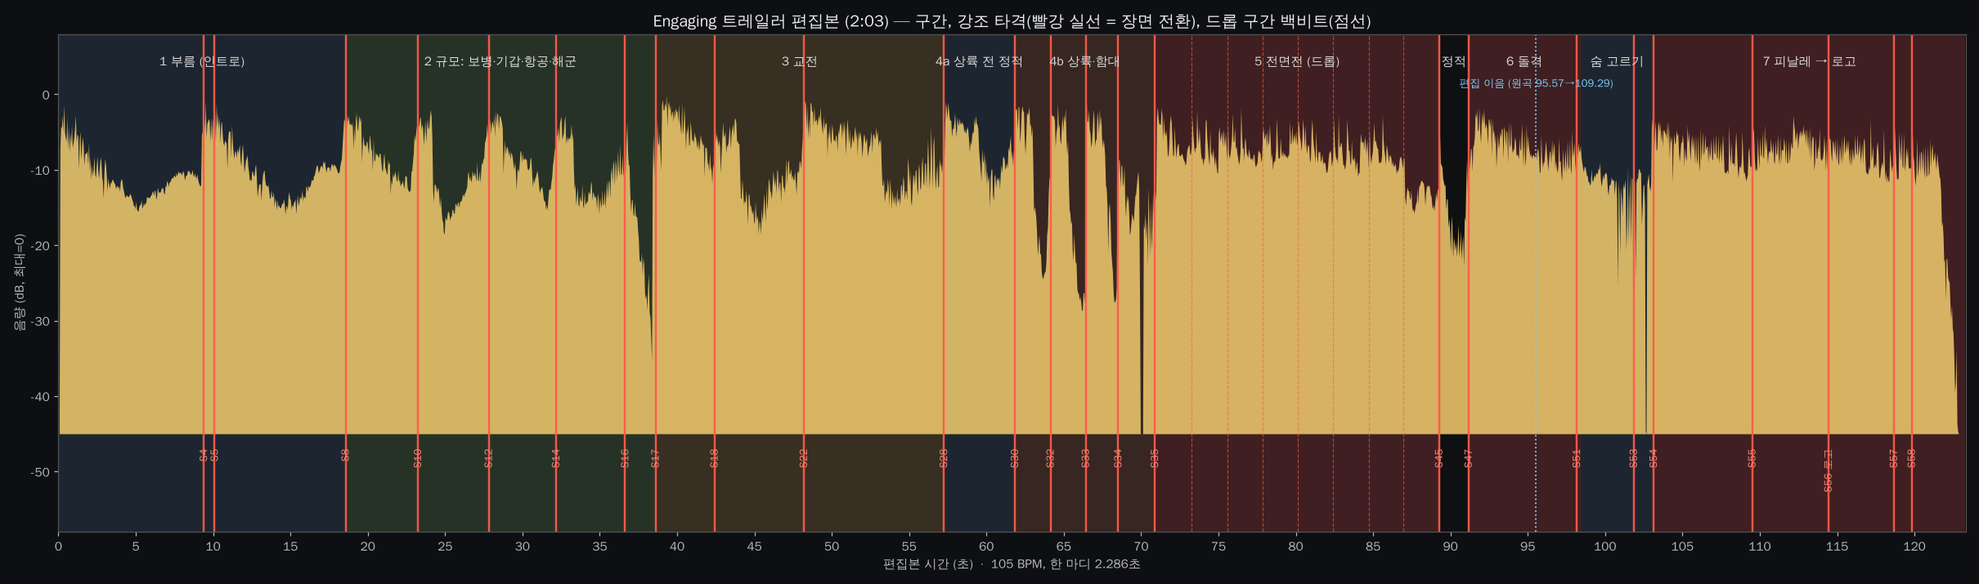
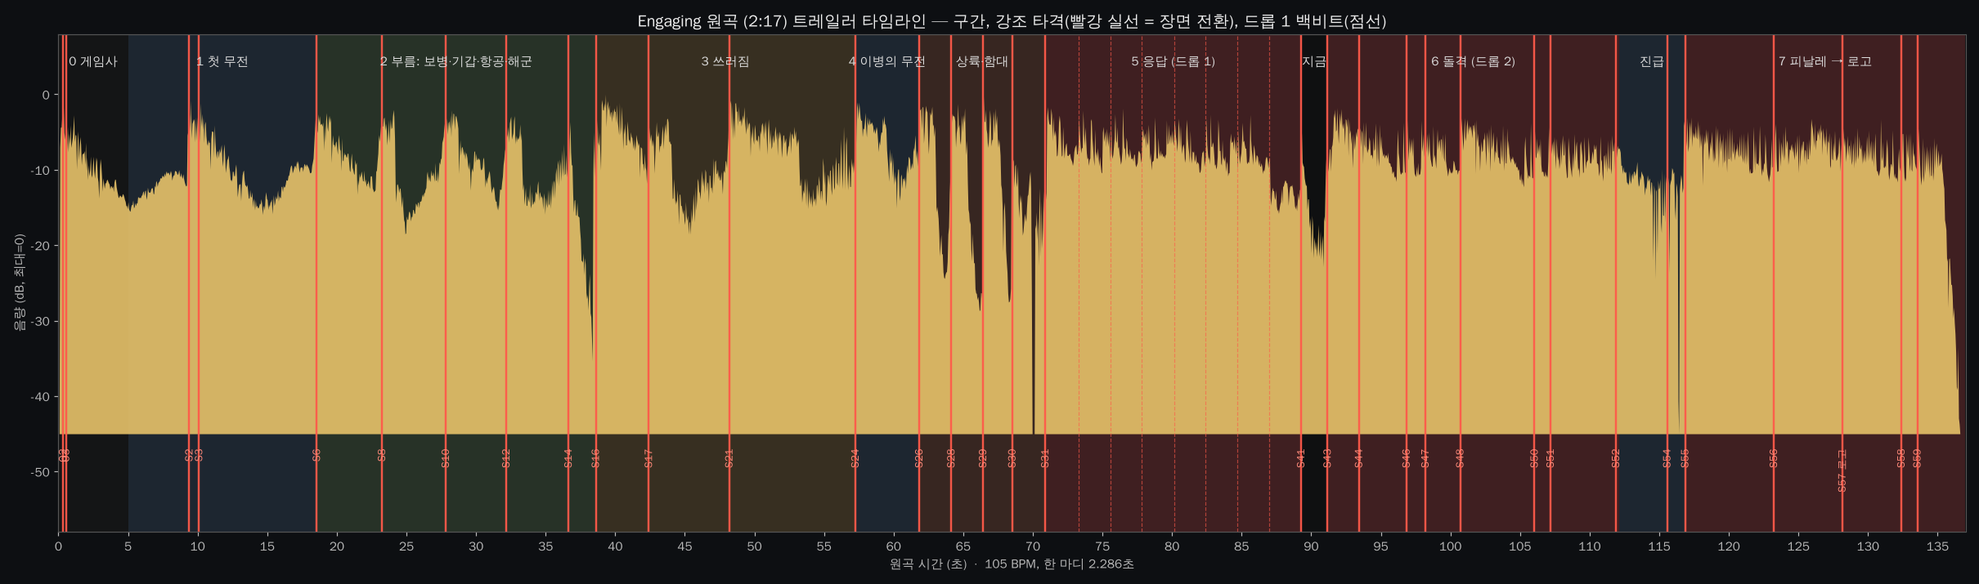
Trailer plan, second draft: original track (2:17), studio opening, real first-person play, the private's story; timeline redrawn
Claude-Session: https://claude.ai/code/session_01VD32C7VcBDEQhZXfw5gdYC

diff --git a/docs/design/trailer.md b/docs/design/trailer.md
@@ -1,6 +1,6 @@
 # 출시 트레일러 설계 [제안]
 
-오너 요청(2026-10-31): 여느 FPS처럼 출시 트레일러를 만든다. 콜 오브 듀티 모던 워페어 4 출시 트레일러 같은 느낌. 음악은 **Engaging 하나만** 쓰고 **2분쯤으로 줄인 편집본**에 맞춘다. 장면 전환은 음악의 파형·분위기·묵직한 타격에 맞춘다.
+오너 요청(2026-10-31): 여느 FPS처럼 출시 트레일러를 만든다. 콜 오브 듀티 모던 워페어 4 출시 트레일러 같은 느낌. 음악은 **Engaging 하나만** 쓴다 (처음엔 2분쯤으로 줄인 편집본이었으나, 오너가 같은 날 **원곡 그대로(2분 17초)** 로 정했다). 장면 전환은 음악의 파형·분위기·묵직한 타격에 맞춘다. 2차 요청(같은 날): **실제 플레이 1인칭 화면을 넣을 것**(봇을 3인칭으로 찍은 것이 아니라), **처음 4–5초는 게임사 로고와 이름만**, **이야기가 분명할 것**.
 
 [제안]은 오너가 아직 정하지 않은 것이다.
 
@@ -40,24 +40,15 @@
 | 112.1–116.7 | 숨 고르기 | 작아진다. 116.3에 한 박 비움 |
 | 116.7–135.3 | 피날레 | 135.3부터 페이드 |
 
-### 2분 편집 [제안]
+### 길이: 원곡 그대로 [확정]
 
-원곡 **95.57초 → 109.29초**를 30 ms 크로스페이드로 잇는다. 드롭 2 가운데 6마디(13.7초)를 빼는 것이고, 결과는 **2분 03초**다.
+오너(2026-10-31)가 "원곡 그대로 쓰는 게 낫겠다"고 정했다. 트레일러는 **2분 17초**이고 아래 시간은 모두 **원곡 시간**이다. 앞서 만든 2:03 편집안(원곡 95.57 → 109.29초, 6마디 삭제)은 쓰지 않는다. 그 13.7초는 6막 돌격 장면으로 채운다.
 
-- **고른 기준:** 마디 단위로 잘라 이을 후보를 전부 비교했다. 비교한 것은 앞뒤 마디의 음색(12음 크로마)과 대역 에너지다. 드롭, 멈춤, 숨 고르기, 피날레 진입을 모두 살리는 후보 가운데 가장 비슷했다.
-- **이음 확인:** 앞뒤 1초 음량은 −12.9 / −13.9 dB다. 이음 근처에서 가장 센 순간(94.98초)은 원곡에 원래 있는 타격이다.
-- **2분 00초가 필요하면:** 93.29 → 109.29(7마디)도 거의 같은 점수다.
-
-```bash
-ffmpeg -i Engaging.mp3 -filter_complex "[0:a]atrim=0:95.57,asetpts=PTS-STARTPTS[a];[0:a]atrim=start=109.29,asetpts=PTS-STARTPTS[b];[a][b]acrossfade=d=0.03:c1=tri:c2=tri[o]" -map "[o]" engaging_trailer.wav
-```
-
-최종 영상에는 오너 PC의 원본(`assets-src/sounds/Engaging.mp3`)으로 같은 지점을 잘라 쓴다. 게임용 파일은 다시 인코딩된 것이다.
-
-### 강조 타격 (편집본 시간, 장면 전환 자리)
+### 강조 타격 (원곡 시간, 장면 전환 자리)
 
 | 시간 | 세기* | 성격 |
 |---|---|---|
+| 0.09 · **0.33** · **0.54** · 0.78 · 1.04 · 1.35 · 1.78 | — | 시작 저음 타격 묶음 (4초쯤 잦아듦) = 게임사 오프닝 자리 |
 | 9.40, 10.10 | 23, 16 | 서브 붐 두 번 (고역 없음) |
 | 18.56 | 20 | 첫 정식 타격 |
 | 23.24 / 27.82 / 32.17 / 36.64 | 21 / 23 / 22 / 17 | 임팩트 4연타 |
@@ -70,163 +61,215 @@ ffmpeg -i Engaging.mp3 -filter_complex "[0:a]atrim=0:95.57,asetpts=PTS-STARTPTS[
 | **70.89** | **37** | 드롭 |
 | 73.27 · 75.57 · 77.84 · 80.14 · 82.41 · 84.71 · 86.96 | 15 안팎 | 드롭 1 백비트 (2.29초 그리드) |
 | 89.27 → 89.75–91.0 정적 → **91.17** | 24 → **40** | 멈춤과 재개 |
-| 98.17 | 14 | 드롭 2 마지막 (원곡 111.89) |
-| 101.85 | — | 숨 고르기 끝 픽업 (원곡 115.57, 저역 급상승 32 dB) |
-| 103.14 | 24 | 피날레 시작 (원곡 116.86) |
-| 103.21 · 103.82 · 104.38 · 104.87 · 105.51 · 106.13 · 106.71 · 107.42 · 107.99 · 108.42 · 108.83 | — | 피날레 킥 (컷 자리) |
-| 109.51 / **114.43** / 118.67 / 119.82 | 17 / 15 / 18 / 16 | 피날레 큰 타격. 114.43 = 로고 |
+| 93.43 / 96.84 / 98.20 / **100.70** / 106.04 / 107.19 | 13 / 17 / 17 / **20** / 18 / 16 | 드롭 2 강조 타격 |
+| 107.43 · 107.85 · 108.14 · 108.95 · 110.42 | — | 드롭 2 끝 필인 |
+| 111.89 | 14 | 드롭 2 마지막 |
+| 115.57 | — | 숨 고르기 끝 픽업 (116.25에 한 박 비움, 저역 급상승 32 dB) |
+| 116.86 | 24 | 피날레 시작 |
+| 116.93 · 117.54 · 118.10 · 118.59 · 119.23 · 119.85 · 120.43 · 121.14 · 121.71 · 122.14 · 122.55 | — | 피날레 킥 (컷 자리) |
+| 123.23 / **128.15** / 132.39 / 133.54 | 17 / 15 / 18 / 16 | 피날레 큰 타격. 128.15 = 로고 |
+| 135.3–137.0 | — | 페이드아웃 |
 
 \* 세기 = 그 순간 음량이 앞 1초보다 튀어나온 정도(dB) + 0.7 × 같은 값의 저역판.
 
-`docs/design/trailer-timeline.png`는 편집본 파형 위에 구간, 타격, 장면 번호를 표시한 그림이다.
+`docs/design/trailer-timeline.png`는 원곡 파형 위에 구간, 타격, 장면 번호를 표시한 그림이다.
 
-## 3. 이야기: "부름" [제안]
+## 3. 이야기: "부름" (2차안) [제안]
 
-**한 줄:** 철문 주둔지의 한 분대장이 무전기를 든다. 그 부름에 보병·기갑·항공·해군이 차례로 답하며 전장이 커지고, 마지막에 그 분대가 거점을 되찾는다.
+오너 2차 요청(2026-10-31) 반영:
+- 실제 플레이 화면(1인칭)을 넣는다.
+- 처음 4–5초는 게임사 로고와 이름만 띄운다.
+- 이야기가 분명해야 한다.
 
-### 독백 (본부 지휘관, 낮고 담담하게, 무전 효과는 약하게)
+**한 줄:** 첫 실전에 나선 무전병 이병의 눈으로 본다. 분대장의 무전 한 통에 기갑·항공·해군이 답하고, 분대장이 쓰러지자 무전기는 이병에게 넘어간다. 마지막에 "지금"이라고 외치는 것은 그 이병이다. 이병이 분대장이 되는 성장 이야기이고, 게임의 계급 진급(이병 → 원수)과 이어진다.
 
-| 대사 | 시점 |
+### 인물
+
+| 인물 | 설명 |
 |---|---|
-| "모든 전쟁은… 같은 방식으로 시작된다." | 0.6초 |
-| "누군가 무전기를 든다." | 5.5초 |
-| "그리고 누군가는… 그 부름에 답한다." | 12.0초 |
+| **이병 (주인공, 시점 인물)** | 2분대 무전병. 얼굴은 나오지 않는다. 플레이어 = 이 사람이다. 1인칭 화면 대부분이 이 사람의 눈이다 |
+| **분대장 (병장)** | 이병 앞에서 늘 보이는 얼굴. 처음엔 무전을 쥐고 있고, 중반에 쓰러졌다가 소생된 뒤 무전기를 넘긴다 |
+| 본부, 상륙정 정장 | 무전 너머의 목소리만 나온다 |
 
-### 현장 무전 (짧게, 무전 효과 강하게)
+블루/레드는 진영 이름 없이 호출부호만 쓴다. 보류 중인 캠페인 인물(강석진 등)은 쓰지 않는다.
 
-| 대사 | 시점 / 화자 |
-|---|---|
-| "2분대. 좌표 보낸다." | 36.8초, 분대장 |
-| "해안까지 30초." | 58.2초, 상륙정 정장 |
-| "램프 내린다!" | 60.6초, 상륙정 정장 |
-| "…지금." | 90.2초, 멈춤의 정적 속, 분대장 |
+### 흐름 (막별 이야기)
 
-### 마무리 독백
+| 막 | 시간 | 이야기 |
+|---|---|---|
+| 0 | 0.00–5.00 | 게임사 로고와 이름 |
+| 1. 첫 무전 | 5.00–18.56 | 밤의 폐건물. 분대장이 이병에게 무전기를 맡기며 "첫 실전이지?" 섬광 두 번, 3-2-1 |
+| 2. 부름 | 18.56–38.60 | 돌입 → 분대장의 무전에 기갑, 항공, 해군이 차례로 답한다 → 포병 사격 |
+| 3. 쓰러짐 | 38.60–57.25 | 교전 속에 분대장이 쓰러지고 이병이 끌어다 소생시킨다. 분대장이 무전기를 이병 손에 쥐여 준다: "이제 네가 불러." |
+| 4. 이병의 무전 | 57.25–70.89 | 이병의 떨리는 목소리 "전 부대, 들리면 응답하라"가 모든 전선에 닿는다 (상륙정, 함대, 잠수함) |
+| 5. 응답 | 70.89–89.27 | 드롭. 모든 전선이 응답하는 전면전 |
+| 6. 지금 | 89.27–116.86 | 1.2초 정적 속 이병의 목소리 "…지금." 이병이 앞장서 돌격하고 분대가 그를 따른다. 응답한 전차와 전투기가 함께 밀어붙이고 거점을 되찾는다. 지붕 위 분대장의 한마디와 **"일병 진급"** 알림 |
+| 7. 피날레 | 116.86–137.0 | 모드 몽타주 → 로고 → 끝 화면 |
 
-| 대사 | 시점 |
-|---|---|
-| "다음 부름은… 네 차례다." | 99.2초, 숨 고르기 |
+### 대사 (전부 무전 또는 근접 육성, 짧게)
 
-### 글 카드 (검은 화면에 흰 글씨, 0.6–1.5초)
+| 시점 | 화자 | 대사 |
+|---|---|---|
+| 6.2 | 분대장 (근접) | "첫 실전이지?" |
+| 7.6 | 분대장 | "무전기 꽉 잡아. 우리 목소리는 그거 하나다." |
+| 36.8 | 분대장 (무전) | "본부, 2분대. 좌표 보낸다." |
+| 55.0 | 분대장 (부상, 거친 숨) | "이제… 네가 불러." |
+| 57.6 | 이병 (무전, 떨림) | "여기는 2분대… 전 부대, 들리면 응답하라." |
+| 60.6 | 상륙정 정장 (무전) | "램프 내린다!" |
+| 90.2 | 이병 (정적 속, 낮게) | "…지금." |
+| 113.0 | 분대장 | "다음 부름은… 네 차례다." |
+
+### 글 카드 (검은 화면, 흰 글씨)
 
 | 카드 | 자리 |
 |---|---|
 | "보병" / "기갑" / "항공" / "해군" | 2막 타격 사이 |
-| "설치 없이. 브라우저에서." | 118.67초 |
-| "PC · 모바일 — 지금 출격" | 119.82초 |
+| "설치 없이. 브라우저에서." | 132.39초 |
+| "PC · 모바일 — 지금 출격" | 133.54초 |
 | strikegy.xyz · 출시일 | 끝 화면 |
 
-## 4. 장면표 (편집본 시간, 30 fps 프레임)
+## 4. 장면표 (원곡 시간, 30 fps 프레임)
 
-컷은 표의 시간 **정각**에 건다. 프레임 = 시간 × 30, 반올림.
+컷은 표의 시간 **정각**에 건다. 시간은 원곡 시간, 프레임 = 시간 × 30, 반올림.
 
-### 1막 · 부름 (0.00–18.56) — 인트로 드론
+**종류 표기:**
+- **FP** = 실제 플레이 1인칭 화면. 게임 HUD를 켜고 이병(또는 그 장면의 병사)의 눈으로 찍는다. 크로스헤어, 탄약, 킬 피드, 히트마커, 프롬프트가 그대로 보인다.
+- **FP·탑승** = 탑승 중 실제 화면. 전차 조준경, 전투기 조종석, 대공포 조준경, 잠망경처럼 게임에 있는 차량 시점이다.
+- **FP·연출** = 1인칭이지만 HUD를 끈 연출 컷. 대사 장면에만 쓴다.
+- **CINE** = 연출 카메라(3인칭 와이드). 규모를 보여 줄 때만 쓴다.
 
-| # | 시간 | 프레임 | 음악 | 장면 |
+오프닝을 뺀 132초 가운데 실제 플레이(FP / FP·탑승)가 **약 57 %** (75초쯤), FP·연출 약 14 %, CINE 약 14 %, 카드·검은 화면·타이틀 약 16 %다 (장면표에서 계산).
+
+### 0막 · 게임사 오프닝 (0.00–5.00) — 첫 저음 타격 묶음
+
+| # | 시간 | 프레임 | 음악 | 화면 |
 |---|---|---|---|---|
-| S1 | 0.00–2.50 | 0 | 드론 | 검은 화면, 무전 잡음. 독백 1 |
-| S2 | 2.50–6.00 | 75 | 드론 | 철문 주둔지, 새벽 어스름. 헬멧 가장자리와 입김 극접사, 느린 밀기 |
-| S3 | 6.00–9.40 | 180 | 드론 | 1인칭. 손이 탄창을 끼우고 노리쇠 멈치를 친다(빈 탄창 재장전 동작). 독백 2 |
-| S4 | **9.40** | 282 | 서브 붐 1 | 와이드. 멀리 섬광이 지붕 너머 병원 실루엣을 비춘다 |
-| S5 | **10.10** | 303 | 서브 붐 2 | 실내. 두 번째 섬광에 분대원들 얼굴이 드러나고 천장에서 먼지가 떨어진다 |
-| S6 | 11.00–15.00 | 330 | 부풂 | 문 앞에 붙어 선 분대. 분대장이 무전기를 든다. 독백 3 |
-| S7 | 15.00–18.56 | 450 | 부풂 | 문으로 느린 밀기. 손 신호 3-2-1을 박자(16.84 / 17.41 / 17.98)에 맞춘다 |
+| O1 | 0.00–0.33 | 0 | 시작음 | 완전한 검은 화면 |
+| O2 | **0.33** | 10 | 저음 붐 | 검은 화면 가운데 강철판 엠블럼이 **박힌다**. 화면이 2프레임 흔들리고 먼지가 털린다 |
+| O3 | **0.54** | 16 | 두 번째 붐 | 가는 빛줄기가 엠블럼을 왼쪽에서 오른쪽으로 훑는다 |
+| O4 | 1.78–3.0 | 53 | 잦아드는 킥 | 엠블럼 아래 게임사 이름이 넓은 자간으로 서서히 나타난다 |
+| O5 | 3.0–4.0 | 90 | 잔향 | 그 아래 작은 줄 "제작" (영문판 "PRESENTS") |
+| O6 | 4.0–5.0 | 120 | 저음 드론만 | 전체가 어두워지며 검은 화면 |
 
-### 2막 · 규모 (18.56–38.60) — 2마디마다 한 방
+로고가 따로 없으면 게임 안 디자인 시스템(Barlow Condensed, 따뜻한 흰색과 앰버)으로 엠블럼과 이름을 만든다.
 
-| # | 시간 | 프레임 | 음악 | 장면 |
+### 1막 · 첫 무전 (5.00–18.56)
+
+| # | 시간 | 프레임 | 종류 | 장면 |
 |---|---|---|---|---|
-| S8 | **18.56**–21.4 | 557 | 첫 타격 | 문 폭파, 실내 총구 섬광 (철문, 건물 안) |
-| S9 | 21.4–23.24 | 642 | 빈자리 | 카드 "보병" |
-| S10 | **23.24**–25.6 | 697 | 임팩트 | 아르덴 눈밭. 전차 주포가 카메라 쪽으로 발사, 눈보라 |
-| S11 | 25.6–27.82 | 768 | 빈자리 | 카드 "기갑". 철교를 건너는 궤도 위에 글씨 |
-| S12 | **27.82**–30.3 | 835 | 임팩트 | 리옹 라벤더밭. 전투기가 카메라 위를 낮게 통과 |
-| S13 | 30.3–32.17 | 909 | 빈자리 | 카드 "항공". 낙하산 탈출 실루엣 |
-| S14 | **32.17**–34.6 | 965 | 임팩트 | 산호 해역. 전함 포탑이 옆에서 발사 (근접) |
-| S15 | 34.6–36.64 | 1038 | 빈자리 | 카드 "해군". 석양 속 함대 와이드 |
-| S16 | **36.64**–38.60 | 1099 | 임팩트 | 철문. 잔해 속 분대장이 무전한다: "2분대. 좌표 보낸다." |
-| S17 | **38.60**–42.41 | 1158 | **가장 센 한 방** | 와이드. 포병 사격 8발이 광장 건너 적 진지를 따라 걸어 들어온다 |
+| S1 | 5.00–9.40 | 150 | FP·연출 | 밤, 철문 주둔지의 폐건물. 이병의 손이 무전기 송수화기를 쥔다. 앞에 웅크린 분대장이 돌아본다: "첫 실전이지?" / "무전기 꽉 잡아…" |
+| S2 | **9.40** | 282 | FP·연출 | 서브 붐 1. 고개를 들면 창밖 섬광이 병원 실루엣을 비춘다 |
+| S3 | **10.10** | 303 | FP·연출 | 서브 붐 2. 천장 먼지가 총 위로 떨어진다 |
+| S4 | 11.0–15.0 | 330 | **FP** | 문 앞에 붙은 분대. 이병이 빈 탄창 재장전을 한다(탄창이 떨어지고 노리쇠 멈치를 친다, 게임 그대로) |
+| S5 | 15.0–18.56 | 450 | FP·연출 | 분대장의 손가락 3-2-1을 박자 16.84 / 17.41 / 17.98에 맞춘다 |
 
-### 3막 · 교전 (38.60–57.25) — 킥마다 짧게
+### 2막 · 부름 (18.56–38.60) — 2마디마다 한 방
 
-| # | 시간 | 프레임 | 음악 | 장면 |
+| # | 시간 | 프레임 | 종류 | 장면 |
 |---|---|---|---|---|
-| S18 | **42.41** | 1272 | 타격 | 공병이 모래주머니 벽을 세운다 (청사진이 실물로) |
-| S19 | 43.3 | 1299 | 킥 | 야포 발사 반동 |
-| S20 | 44.4 | 1332 | 킥 | 해 질 녘 대공포 예광탄 (리옹) |
-| S21 | 45.87–48.19 | 1376 | 라이저, 저음 빠짐 | 슬로모션. 의무병이 쓰러진 동료를 엄폐물 뒤로 끈다, 흙먼지 |
-| S22 | **48.19**–50.39 | 1446 | 큰 타격 | 빌바오 거리. 장갑차가 판처파우스트에 맞아 폭발 |
-| S23 | 50.39 … 53.15 | 1512 | 3연음 필인 | 필인 타격마다 2–4프레임 총구 섬광 클로즈업: M24 → M249 → M870 → AKM → M1911 → 수류탄 폭발 → MP7 → 저격 스코프 → M4A1 |
-| S27 | 53.2–57.25 | 1596 | 부풂 | 빌바오. 연기가 거리를 덮고 그 속을 걸어 나오는 분대 실루엣 |
+| S6 | **18.56**–21.4 | 557 | **FP** | 문 폭파, 방 돌입 사격. 히트마커와 킬 피드 |
+| S7 | 21.4–23.24 | 642 | 카드 | "보병" |
+| S8 | **23.24**–25.6 | 697 | **FP·탑승** | 아르덴. 전차 조준경 화면, 발사(재장전 고리가 닫힌다) |
+| S9 | 25.6–27.82 | 768 | 카드 | "기갑" |
+| S10 | **27.82**–30.3 | 835 | **FP·탑승** → CINE | 리옹. 전투기 조종석 화면으로 라벤더밭 위 저공 통과, 이어 지상에서 올려다본 통과 컷 |
+| S11 | 30.3–32.17 | 909 | 카드 | "항공" |
+| S12 | **32.17**–34.6 | 965 | CINE | 산호 해역. 전함 포탑 근접 발사 |
+| S13 | 34.6–36.64 | 1038 | 카드 | "해군" |
+| S14 | **36.64**–37.6 | 1099 | FP·연출 | 무전하는 분대장: "본부, 2분대. 좌표 보낸다." |
+| S15 | 37.6–38.60 | 1128 | **FP** | 지원 호출 조준 고리가 광장 건너에 놓인다 (게임의 지원 호출 화면 그대로) |
+| S16 | **38.60**–42.41 | 1158 | **FP** | 가장 센 한 방. 창 너머로 포탄 8발이 걸어 들어온다 |
 
-### 4막 · 상륙과 함대 (57.25–70.89)
+### 3막 · 쓰러짐 (38.60–57.25)
 
-| # | 시간 | 프레임 | 음악 | 장면 |
+| # | 시간 | 프레임 | 종류 | 장면 |
 |---|---|---|---|---|
-| S28 | **57.25** | 1718 | 타격 | 모든 소리가 빠진 듯한 컷: 재의 섬 새벽 안개 |
-| S29 | 57.4–61.84 | 1722 | 브레이크다운 | 상륙정 안. 웅크린 병사들, 뱃전에 부서지는 파도. "해안까지 30초." / "램프 내린다!" |
-| S30 | **61.84** | 1855 | 끊어치기 | 램프가 쾅 내려가고 빛이 쏟아진다 |
-| S31 | 62.03–64.14 | 1861 | 킥 | 검은 모래로 쏟아져 나가는 병사들, 물기둥 |
-| S32 | **64.14** | 1924 | 센 타격 | 토치카 기관총 섬광과 예광탄 (근접) |
-| S33 | **66.42** | 1993 | **곡 전체 최강** | 산호 해역. 전함 전 주포 일제사격 와이드, 수면에 압력 고리 |
-| S34 | **68.52**–69.90 | 2056 | 저음 빠짐 | 수면 높이. 구축함 쪽으로 미끄러지는 어뢰 항적, 잠망경 |
-| — | 69.90–70.05 | 2097 | **완전 무음** | 검은 프레임 4–5장 |
-| S35 | **70.89** | 2127 | **드롭** | 어뢰 명중, 거대한 물기둥 |
+| S17 | **42.41** | 1272 | **FP** | 건설 모드. 모래주머니 청사진이 실물로 |
+| S18 | 43.3 | 1299 | **FP·탑승** | 고정 중기관총 사격 |
+| S19 | 44.4 | 1332 | CINE | 해 질 녘 대공 예광탄 (리옹) |
+| S20 | 45.87–48.19 | 1376 | **FP** 슬로모션 | 라이저(저음 빠짐). 옆의 분대장이 쓰러진다(초록 십자). 이병이 달려가 "길게 E — 소생" 프롬프트와 진행 막대가 찬다 |
+| S21 | **48.19**–50.39 | 1446 | **FP** | 판처파우스트(병과 장비)로 다가오던 장갑차를 날린다 |
+| S22 | 50.39 … 53.15 | 1512 | **FP** | 3연음 필인. 타격마다 다른 총의 1인칭 3–4프레임: M24 노리쇠 → M249 연사 → M870 펌프 → AKM → M1911 → 수류탄 투척 → MP7 → 스코프 → M4A1 |
+| S23 | 53.2–57.25 | 1596 | FP·연출 | 연기 속. 소생한 분대장이 피 묻은 손으로 송수화기를 이병 손에 쥐여 준다: "이제… 네가 불러." |
+| S24 | **57.25** | 1718 | — | 타격과 함께 검은 화면 |
 
-### 5막 · 전면전 (70.89–89.27) — 백비트(2.29초)마다 맵 교대, 반 박자에 삽입 컷
+### 4막 · 이병의 무전 (57.25–70.89)
 
-| # | 시간 | 프레임 | 장면 |
-|---|---|---|---|
-| S36 | 72.0 | 2160 | 물보라를 뚫고 항모 함수에서 함재기 이함 |
-| S37 | **73.27** | 2198 | 함대 위에서 급강하폭격기가 날개를 꺾는다 |
-| S38 | **75.57** | 2267 | 아르덴. 돌다리를 건너는 전차 행렬, 호텔 광장 야포 |
-| S39 | **77.84** | 2335 | 페르시아. 요새 성문 돌파 |
-| S40 | **80.14** | 2404 | 리옹. 교회 언덕에 근접항공지원기 로켓 연사 |
-| S41 | **82.41** | 2472 | 빌바오. 광장의 전차 옆을 달리는 보병 |
-| S42 | **84.71** | 2541 | 재의 섬. 비행장 대공포, 헤엄쳐 상륙하는 장갑차 |
-| S43 | **86.96** | 2609 | 철문 운하 다리 위 교전, 수류탄 |
-| S44 | 88.1 | 2643 | 삽입 컷 둘. 크로스헤어가 빨갛게 바뀌는 순간 / 소생 |
-
-### 6막 · 돌격 (89.27–103.14)
-
-| # | 시간 | 프레임 | 음악 | 장면 |
+| # | 시간 | 프레임 | 종류 | 장면 |
 |---|---|---|---|---|
-| S45 | **89.27** | 2678 | 멈춤 전 타격 | 카메라 바로 앞에서 포탄이 터지는 섬광 |
-| S46 | 89.75–91.0 | 2693 | **정적** | 검은 화면. 분대장의 낮은 한마디: "…지금." |
-| S47 | **91.17** | 2735 | 재개 | 오프닝 분대가 잔해를 넘어 B 광장으로 돌격. 크레인처럼 솟는 와이드 |
-| S48 | 93.43 | 2803 | 킥 | 잔해를 넘는 분대장 근접 |
-| S49 | 94.98 | 2849 | 타격 | 거점 고리가 파랗게 바뀐다 |
-| S50 | 96.7 | 2901 | 킥 | 물러나는 적, 인식표 줍기 |
-| S51 | **98.17** | 2945 | 마지막 타격 | 광장 한가운데 모인 분대 |
-| S52 | 98.4–101.85 | 2952 | 숨 고르기 | 슬로모션, 재가 내린다. 해 질 녘 지붕 위 분대장, 카메라가 돌며 멀리 이어지는 전장. 독백: "다음 부름은… 네 차례다." |
-| S53 | **101.85** | 3056 | 픽업 | 흰 섬광에서 검은 화면으로 |
+| S25 | 57.4–61.84 | 1722 | **FP** | 재의 섬 새벽, 상륙정 안(다른 병사의 눈). 무전에서 이병의 떨리는 목소리: "여기는 2분대… 전 부대, 들리면 응답하라." 정장: "램프 내린다!" |
+| S26 | **61.84** | 1855 | **FP** | 램프가 쾅 내려가고 빛이 쏟아진다 |
+| S27 | 62.03–64.14 | 1861 | **FP** | 검은 모래로 질주, 물기둥 |
+| S28 | **64.14** | 1924 | CINE | 토치카 기관총 섬광 |
+| S29 | **66.42** | 1993 | CINE | 곡 전체 최강. 전함 전 주포 일제사격 와이드 |
+| S30 | **68.52**–69.90 | 2056 | **FP·탑승** | 잠수함 잠망경 화면. 어뢰 항적이 구축함으로 |
+| — | 69.90–70.05 | 2097 | — | 완전 무음, 검은 프레임 4–5장 |
+| S31 | **70.89** | 2127 | CINE | 드롭. 어뢰 명중 물기둥 |
 
-### 7막 · 피날레 (103.14–123.3)
+### 5막 · 응답 (70.89–89.27) — 백비트마다 전선 교대
 
-| # | 시간 | 프레임 | 음악 | 장면 |
+| # | 시간 | 프레임 | 종류 | 장면 |
 |---|---|---|---|---|
-| S54 | **103.14**–109.51 | 3094 | 킥마다 한 컷 (약 0.6초) | 모드 몽타주: 하드포인트 고리 이동 → 러시 폭약 설치 → 수색 섬멸 해체 → 호송 장갑차 → 요새전 건설 → 건 게임 총 바뀜 → 최후의 1인 폭풍 벽 → 킬 컨펌 인식표 → 함재기 착함 와이어 → 잠수함 잠항 → 전차 포탑 회전 |
-| S55 | **109.51**–114.43 | 3285 | 큰 타격 → 지속 | 가장 큰 폭발 한 컷, 이어 해 질 녘 전장 전체로 느리게 빠지는 와이드 (머리 위 항공기, 전차, 연기) |
-| S56 | **114.43** | 3433 | 로고 타격 | 검은 화면에 **STRIKEGY** 로고가 박힌다, 불씨 |
-| S57 | **118.67** | 3560 | 타격 | 카드 "설치 없이. 브라우저에서." |
-| S58 | **119.82** | 3595 | 마지막 타격 | 카드 "PC · 모바일 — 지금 출격" |
-| S59 | 120.5–123.3 | 3615 | 페이드 | 끝 화면: strikegy.xyz, 출시일 |
+| S32 | 72.0 | 2160 | **FP·탑승** | 항모 갑판에서 함재기 조종석으로 이함 |
+| S33 | **73.27** | 2198 | CINE | 급강하폭격기가 날개를 꺾는다 |
+| S34 | **75.57** | 2267 | **FP·탑승** | 아르덴 돌다리 위 전차 조준경, 연속 사격 |
+| S35 | **77.84** | 2335 | **FP** | 페르시아 요새 성문 돌파, 실내 교전 |
+| S36 | **80.14** | 2404 | **FP·탑승** | 리옹 교회 언덕에 근접항공지원기 로켓 연사 (조종석) |
+| S37 | **82.41** | 2472 | **FP** | 빌바오 광장. 전차 옆을 질주하다 슬라이딩, 사격 |
+| S38 | **84.71** | 2541 | **FP·탑승** | 재의 섬 비행장. 대공포 조준경으로 적기 격추 |
+| S39 | **86.96** | 2609 | **FP** | 철문 운하 다리 교전, 수류탄 |
+| S40 | 88.1 | 2643 | **FP** | 삽입 컷 둘. 크로스헤어가 빨갛게 바뀌는 순간 / 헤드샷 킬 피드 |
+
+### 6막 · 지금 (89.27–116.86) — 드롭 2 전체
+
+| # | 시간 | 프레임 | 종류 | 장면 |
+|---|---|---|---|---|
+| S41 | **89.27** | 2678 | **FP** | 바로 옆 포탄 폭발, 화면 흔들림과 피격 표시 |
+| S42 | 89.75–91.0 | 2693 | — | 검은 화면, 정적. 이병의 낮은 목소리: "…지금." |
+| S43 | **91.17** | 2735 | **FP** | 재개. 이병이 엄폐에서 일어나 앞장서 돌격한다 |
+| S44 | **93.43** | 2803 | **FP** | 잔해를 넘으며 뒤돌아보면 분대가 따라온다 |
+| S45 | 94.85 | 2846 | **FP** | 골목 모퉁이 교전, 히트마커 |
+| S46 | **96.84** | 2905 | CINE | 응답한 아군 전차가 벽을 밀고 분대 옆으로 들어선다 |
+| S47 | **98.20** | 2946 | **FP** | 이병이 적 기관총 진지를 적 표시(스팟)하자 전차 주포가 진지를 날린다 |
+| S48 | **100.70** | 3021 | **FP** | 드롭 2 최강 타격. 고개를 들면 아군 전투기 두 대가 지붕 높이로 지나가며 적 전선에 로켓을 쏟는다 |
+| S49 | 101.81 · 102.57 · 103.18 · 103.99 | 3054 | **FP** | 킥마다 한 컷. 광장 계단을 오르는 근접 교전 (사격, 재장전, 근접 공격, 투척). HUD에 "B 점령 중" 진행 |
+| S50 | **106.04** | 3181 | **FP** | 거점 점령 배너, 고리가 우리 색으로 |
+| S51 | **107.19**–110.42 | 3216 | **FP** | 끝 필인. 타격마다 물러나는 적, 마지막 한 발, 인식표 줍기, 분대원이 소총을 치켜든다 |
+| S52 | **111.89** | 3357 | FP·연출 | 분대가 광장 한가운데로 모인다 |
+| S53 | 112.1–115.57 | 3363 | FP·연출 → 마지막에 HUD | 숨 고르기. 슬로모션, 재가 내린다. 해 질 녘 지붕. 붕대 감은 분대장이 이병 어깨에 손을 얹는다: "다음 부름은… 네 차례다." 화면 위로 게임의 진급 알림 **"일병 진급"**(계급장 포함)이 뜬다 |
+| S54 | **115.57** | 3467 | — | 픽업. 흰 섬광에서 검은 화면 |
+| — | 116.25 | 3488 | — | 한 박 비움, 검은 프레임 |
+
+### 7막 · 피날레 (116.86–137.0)
+
+| # | 시간 | 프레임 | 종류 | 장면 |
+|---|---|---|---|---|
+| S55 | **116.86**–123.23 | 3506 | **FP** 위주 | 킥마다 한 컷(약 0.6초). 하드포인트 고리 이동 → 러시 폭약 설치 → 수색 섬멸 해체 → 호송 장갑차 → 요새전 건설 → 건 게임 총 바뀜 → 최후의 1인 폭풍 벽 → 킬 컨펌 인식표 → 함재기 착함 와이어(FP·탑승) → 잠수함 잠항(FP·탑승) → 전차 포탑 회전(FP·탑승) |
+| S56 | **123.23**–128.15 | 3697 | CINE | 가장 큰 폭발 한 컷, 이어 해 질 녘 전장 전체로 느리게 빠지는 와이드 |
+| S57 | **128.15** | 3845 | 타이틀 | **STRIKEGY** 로고가 박힌다, 불씨 |
+| S58 | **132.39** | 3972 | 카드 | "설치 없이. 브라우저에서." |
+| S59 | **133.54** | 4006 | 카드 | "PC · 모바일 — 지금 출격" |
+| S60 | 134.2–137.0 | 4026 | 끝 화면 | strikegy.xyz, 출시일, 음악 페이드와 함께 |
 
 ## 5. 만드는 방법 [제안]
 
-- **촬영:** 게임 엔진 안에서 한다. 메뉴 배경 영상처럼 프레임 단위로 렌더하고(`docs/menu-film.md`), 카메라 경로는 장면별 스크립트로 짠다. HUD는 끈다(S44의 크로스헤어 한 컷만 예외).
-- **연출:** 봇은 즉흥으로 움직이므로 S17 포격, S29–S35 상륙과 일제사격·어뢰, S47 돌격, S55 와이드는 개발용 장면 세팅으로 짠다. 필요한 것: 봇 위치·행동 고정, 포탄 시각 지정, 슬로모션(시뮬 시간 배속).
-- **소리:** Engaging 편집본 위에 게임 효과음(포격, 엔진, 총성)을 얹고, 장면별로 따로 녹음해 섞는다. 대사는 전장 브리핑과 같은 경로(OpenRouter의 ElevenLabs, 받아쓰기 검수)로 만든다. 키 사용은 오너 확인 뒤 진행한다.
-- **해상도:** 1920×1080, 30 fps. 60 fps가 필요하면 같은 방식으로 렌더 시간만 두 배.
+- **1인칭 실플레이 촬영 장치 (새로 만들어야 함):** 개발 전용 `?trailer=<장면>`을 만든다.
+  - 고정 시드 매치에서 장면별로 맵, 위치, 봇 행동을 세팅한다.
+  - 플레이어 입력은 실제로 한 번 플레이한 것을 기록해 두고, 프레임 단위 렌더 때 그대로 재생한다. 그래야 실시간 플레이의 손맛을 살리면서 매끄러운 30 fps가 나온다.
+  - HUD를 켜고 끄는 것은 장면마다 정한다.
+  - 기록용 플레이는 오너가 직접 할 수도 있고, Claude가 입력 스크립트로 만들 수도 있다.
+- **연출 컷 (CINE, FP·연출):** 메뉴 배경 영상처럼 엔진 안 프레임 단위 렌더(`docs/menu-film.md`)로 찍고, 카메라 경로는 스크립트로 짠다. 분대장 얼굴 근접은 지금 병사 모델로 찍는다.
+- **슬로모션:** 시뮬 시간 배속으로 처리한다(S20, S53).
+- **소리:** Engaging 원곡 위에 게임 효과음(총성, 포격, 엔진)을 장면별로 녹음해 섞는다. 대사는 전장 브리핑과 같은 경로로 만든다(OpenRouter의 ElevenLabs, 받아쓰기로 검수, 무전 효과는 게임의 무전 체인). 키 사용은 오너 확인 뒤 진행한다.
+- **해상도:** 1920×1080, 30 fps.
 
 ## 6. 오너가 정할 것
 
-1. 이야기 "부름"과 이 장면표로 갈지 (뺄 장면, 넣고 싶은 장면)
-2. 편집본 2:03(6마디 컷)인지 2:00(7마디 컷)인지
-3. 대사 언어: 한국어 / 영어 / 두 버전
-4. 끝 화면: 출시일, "무료" 표기, 지원 기기
-5. 독백 목소리: 전장 브리핑의 본부 목소리(brian)로 할지, 따로 고를지
-6. 지금 게임에 없는 연출(비, 압력 고리 같은 효과)은 새로 만들지, 있는 것만으로 찍을지
+1. **게임사 이름 (와 로고가 있는지)** — 오프닝 O2–O5에 들어간다. 로고가 없으면 엠블럼을 코드로 만든다.
+2. 이야기 "부름" 2차안으로 갈지. 분대장이 쓰러졌다 살아나는 전개, 마지막 "일병 진급" 알림 포함
+3. 인물에 이름을 붙일지 (지금은 "이병" / "분대장")
+4. 대사 언어: 한국어 / 영어 / 두 버전
+5. 끝 화면에 출시일과 "무료"를 넣을지
+6. 1인칭 실플레이 기록을 오너가 직접 플레이할지, Claude가 입력을 짤지
 
 참고 자료 (2026-10-31 검색):
 - [Modern Warfare 4: Tokyo Games Show Campaign Trailer](https://www.callofduty.com/blog/2026/09/call-of-duty-modern-warfare-4-tokyo-games-show-campaign-trailer)

diff --git a/CLAUDE.md b/CLAUDE.md
@@ -138,7 +138,7 @@ Owner's rules for this pass: optimization only by cutting needless work, never b
 - **Game setup** (`MatchSetup.ts` `mapFor` / `onRandom`, `SetupField` stepper `reset`, `SetupMap.modes`; solo setup only, the room page keeps greyed modes): a mode the picked map lacks is still pickable and moves to a map that has it (first whose default it is, else the first that has it; the row says "{map}에서"), ↑ ↓ / Q / E move through every map's modes; maps without the picked mode are dimmed in the strip; a random-map button on the map card (R); "권장 n" under the team size when it differs from the map's; the summary line over the start button (the room page shows its hint there).
 - Looked at, not a bug: Ashfall "restarting at ~95 s" — a 32v32 conquest on the sim ran 200 s without an end; red falls to ~22 up around 90 s and comes back in landing craft by 120 s (a new landing wave). `&team=red` is not a URL option (`?side=red` is).
 
-**Launch trailer (owner, 2026-10-31: "like CoD Modern Warfare 4's launch trailer"; music Engaging only, cut to ~2 min; scenes must follow the music's waveform, mood and heavy drum hits) — proposal, waiting for the owner**: `docs/design/trailer.md` (+ `trailer-timeline.png`). Engaging is 2:17 (not ~3 min; the game's file is the whole track), 105 BPM, bar 2.286 s; accent hits picked by how far they stand out over the second before (the kick runs almost throughout); edit = original 95.57 s -> 109.29 s (6 bars of the second drop out, 30 ms crossfade) = 2:03, keeping the drop (70.89), the 1.2 s stop (89.75-91.0), the breath and the finale; true silences at 69.90 (0.15 s) and the stop. Story "부름": an Iron Gate squad leader's radio call answered by infantry / armour / air / navy, landing and fleet, all-out montage on the backbeats, the stop ("…지금."), the charge, the logo on the 114.43 hit; 59 shots with times and frames in the doc. Open: everything in the doc's section 6.
+**Launch trailer (owner, 2026-10-31: "like CoD Modern Warfare 4's launch trailer"; music Engaging only; scenes must follow the music's waveform, mood and heavy drum hits; then: real first-person gameplay footage (not bots filmed in third person), the first 4-5 s only the studio's logo and name, a clear story; then: **use the original track as is**, no 2-minute edit) — proposal, waiting for the owner**: `docs/design/trailer.md` (+ `trailer-timeline.png`). Engaging is 2:17 (not ~3 min; the game's file is the whole track), 105 BPM, bar 2.286 s; accent hits picked by how far they stand out over the second before (the kick runs almost throughout); the opening low hits (0.33 / 0.54 s, dying by ~4 s) carry the studio card, the drop at 70.89, true silences at 69.90 (0.15 s) and 89.75-91.0 (the stop), the breath 112.1-116.7, the finale from 116.86, the logo on the 128.15 hit, fade 135.3-137. Story "부름" (second draft): seen through a new radio operator private's eyes; the squad leader's call is answered by armour / air / navy, the leader goes down, is revived and hands the private the handset ("이제 네가 불러"), the private's call reaches every front, in the stop the private says "…지금" and leads the charge, the zone is retaken, the game's own "일병 진급" notice pops on the rooftop. 60 shots with times / frames, each marked FP (real first-person play with the HUD), FP aboard (the game's tank sight / cockpit / AA sight / periscope), FP staged (no HUD, dialogue) or CINE; real play is ~57 % of the 132 s after the opening (counted from the table). Needs a dev-only trailer rig (`?trailer=<shot>`: seeded scene, recorded player inputs replayed while rendering frame by frame). Open: the studio's name / logo and the rest of the doc's section 6.
 
 ## UI remake: Battlefield 2042 look (owner, 2026-10-12)
 
